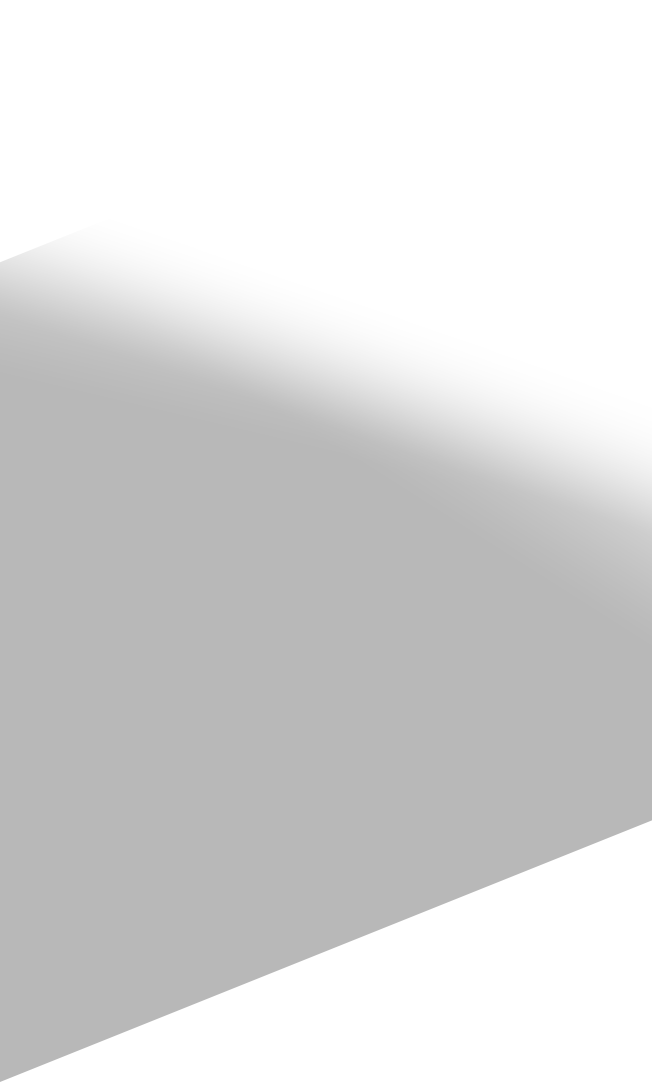
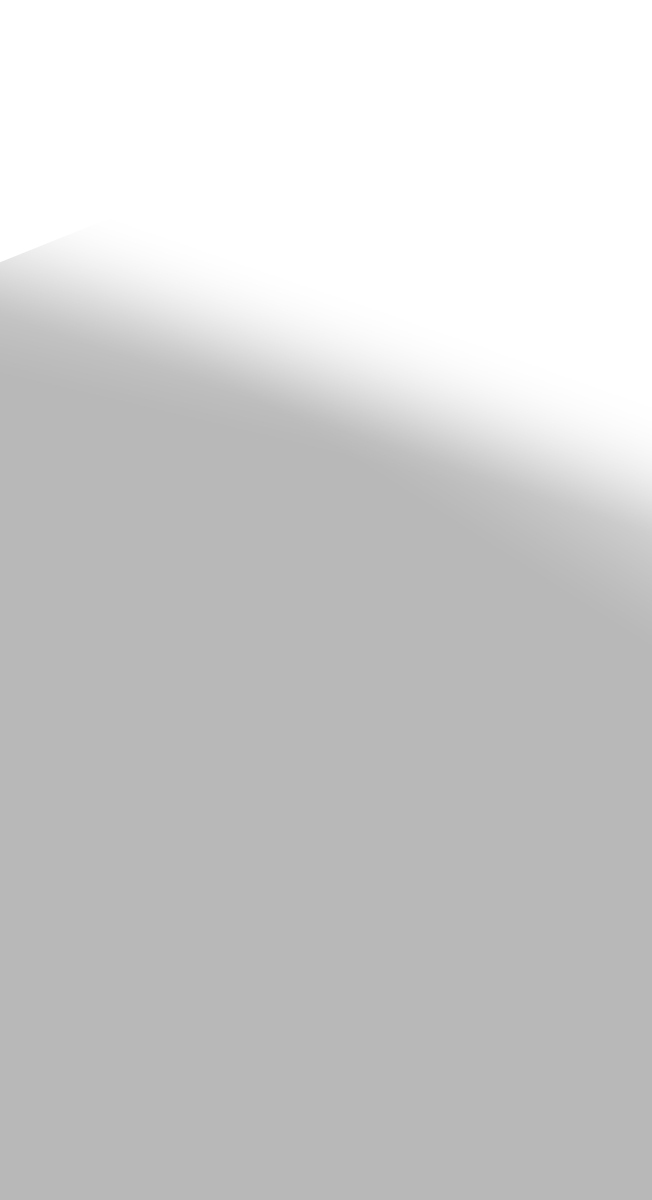
ie issues

Changed region(s): [[0.0, 0.7625, 1.0, 1.0], [0.3067, 0.2745, 1.0, 0.4575], [0.0, 0.2135, 0.0613, 0.244]]

diff --git a/css/ie8.css b/css/ie8.css
@@ -37,7 +37,7 @@
 }
 .ie8 .whiteAngle {
 	width: 50%;
-	height: 800px;
+	height: 1200px;
 	position:absolute;
 	background-color: transparent !important;
 	top: 600px;
